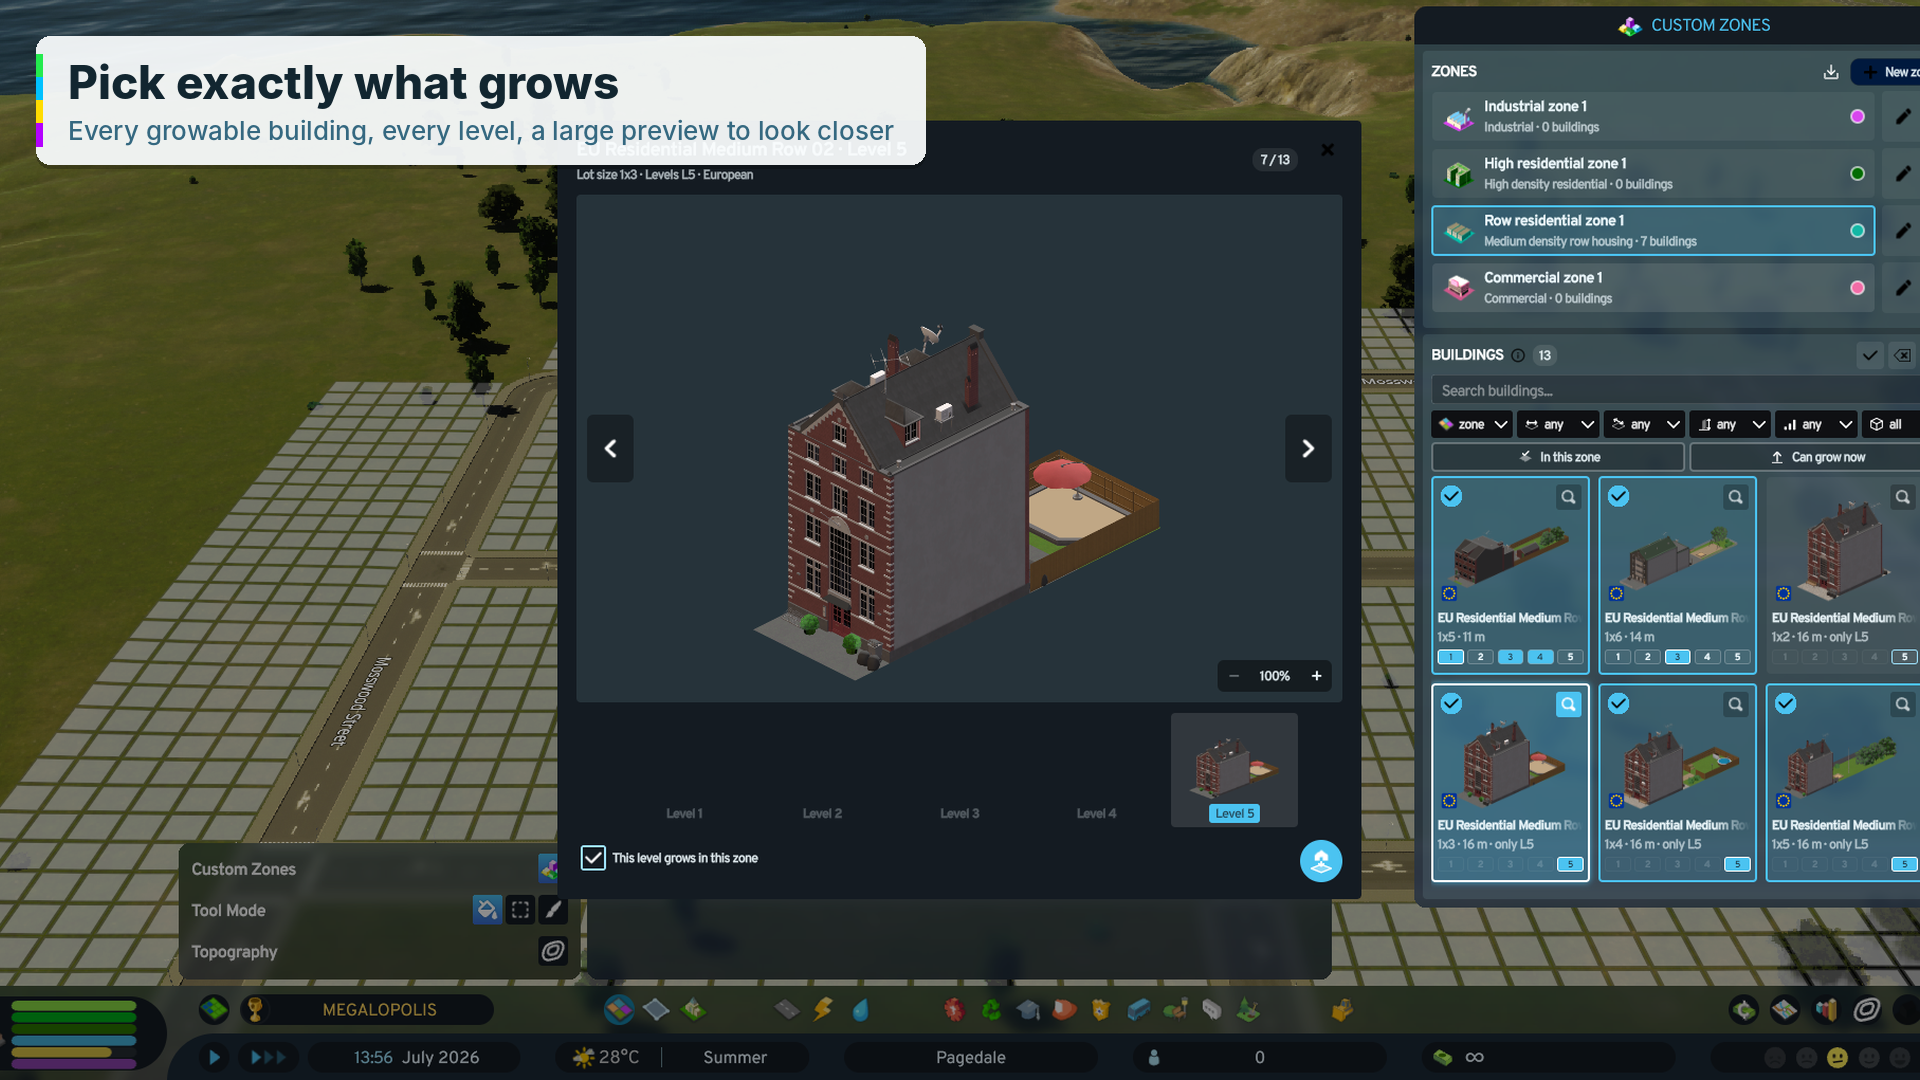
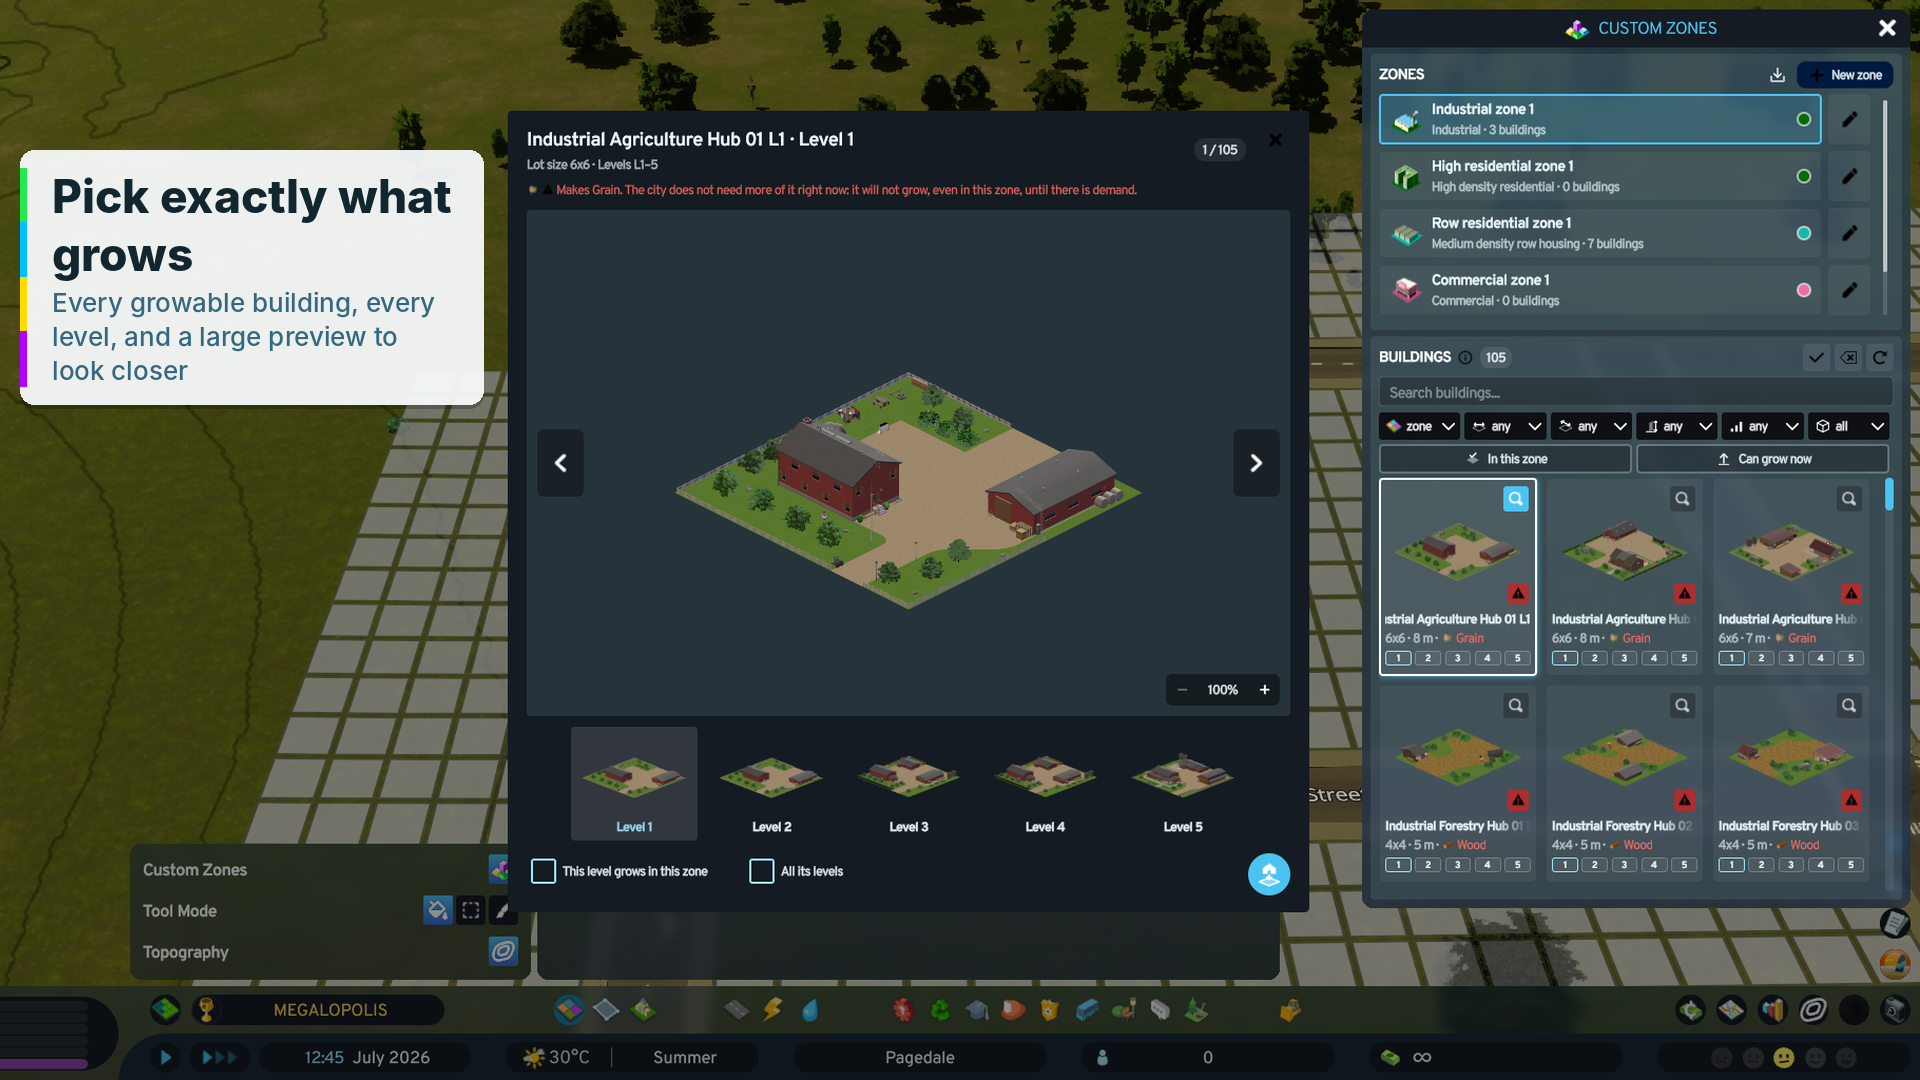
captures update

diff --git a/CustomZones/UI/src/components/CustomZonesPanel.tsx b/CustomZones/UI/src/components/CustomZonesPanel.tsx
@@ -43,6 +43,7 @@ import {
   selectedZone$,
   setPanelVisible,
   setSelectedZone,
+  pickZone,
   setZoneColor,
   setZoneKeepDesign,
   setZoneGrowth,
@@ -153,13 +154,13 @@ export const CustomZonesPanel = () => {
             zones={zones}
             selectedId={selectedId}
             editingId={showEditor ? selectedId : ""}
-            onSelect={(id) => setSelectedZone(id)}
+            onSelect={(id) => pickZone(id)}
             onEdit={(id) => {
               setCreating(false);
               if (id === selectedId && showEditor) {
                 setEditing(false);
               } else {
-                setSelectedZone(id);
+                pickZone(id);
                 setEditing(true);
               }
             }}

diff --git a/CustomZones/UI/src/bindings.ts b/CustomZones/UI/src/bindings.ts
@@ -193,6 +193,8 @@ export const PACK_MOD = "__CZ_MOD__";
 
 export const setPanelVisible = (visible: boolean) => trigger(MOD_ID, "SetPanelVisible", visible);
 export const setSelectedZone = (id: string) => trigger(MOD_ID, "SetSelectedPalette", id);
+/** A zone clicked in the list: selected in the panel and picked in the zoning toolbar to paint. */
+export const pickZone = (id: string) => trigger(MOD_ID, "PickZone", id);
 
 export const createZone = (name: string, category: ZoneCategory, density: DensityType) =>
   trigger(MOD_ID, "CreatePalette", name, category, density);

diff --git a/CustomZones/Systems/PaletteUISystem.cs b/CustomZones/Systems/PaletteUISystem.cs
@@ -111,6 +111,12 @@ namespace CustomZones.Systems
 
         private bool m_ZoneToolWasActive;
 
+        // A zone chosen in the panel, to be picked in the zoning toolbar as well, and
+        // the frames left to wait for it (a new zone gets its zone type a frame or two
+        // after it is created).
+        private string m_PaintPaletteId = string.Empty;
+        private int m_PaintWaitFrames;
+
         // "Place it in the city" from the large preview: the building handed to the
         // game's placement tool and the zone tool that was open. When the player
         // leaves the placement (Escape / right click), the zone tool, the panel and
@@ -187,6 +193,9 @@ namespace CustomZones.Systems
                 PushCoverage();
             });
 
+            // A zone clicked in the panel's list: also picked in the zoning toolbar.
+            CreateTrigger<string>("PickZone", SelectToPaint);
+
             m_ScrollIndex = CreateBinding("ScrollIndex", "SetScrollIndex", 0D, row =>
             {
                 m_ScrollRow = row;
@@ -241,7 +250,7 @@ namespace CustomZones.Systems
             CreateTrigger<string, int, int>("CreatePalette", (name, category, density) =>
             {
                 var palette = PaletteStorage.Instance.Create(name, (ZoneCategory)category, (DensityType)density);
-                Select(palette.Id);
+                SelectToPaint(palette.Id);
             });
 
             CreateTrigger<string, string>("RenamePalette",
@@ -305,7 +314,7 @@ namespace CustomZones.Systems
                 var zone = PaletteStorage.Instance.Import(file);
                 if (zone != null)
                 {
-                    Select(zone.Id);
+                    SelectToPaint(zone.Id);
                 }
             });
 
@@ -429,6 +438,7 @@ namespace CustomZones.Systems
             base.OnUpdate();
 
             HandlePlacingReturn();
+            PickPaintZone();
             HandleToolSelection();
 
             var selectedEntity = m_SelectedInfoSystem.selectedEntity;
@@ -576,6 +586,64 @@ namespace CustomZones.Systems
             m_ScrollRow = 0;
             MarkBrowserDirty();
             PushCoverage();
+        }
+
+        /// <summary>A zone the player chose in the panel: selected, and picked in the zoning toolbar to paint.</summary>
+        private void SelectToPaint(string id)
+        {
+            Select(id);
+            m_PaintPaletteId = m_SelectedPaletteId;
+            m_PaintWaitFrames = 120;
+        }
+
+        /// <summary>
+        /// While the zoning tool is open, picks the zone chosen in the panel in the
+        /// game's zoning toolbar, so the player can paint it straight away. (The other
+        /// way round, a zone picked in the toolbar is selected in the panel by
+        /// <see cref="HandleToolSelection"/>.)
+        /// </summary>
+        private void PickPaintZone()
+        {
+            if (m_PaintPaletteId.Length == 0)
+            {
+                return;
+            }
+
+            if (!(m_ToolSystem.activeTool is ZoneToolSystem) || m_PaintWaitFrames-- <= 0)
+            {
+                m_PaintPaletteId = string.Empty;
+                return;
+            }
+
+            if (!m_ZoneSystem.TryGetPaletteZone(m_PaintPaletteId, out var zone))
+            {
+                return; // not created yet
+            }
+
+            var paletteId = m_PaintPaletteId;
+            if (m_ToolSystem.activePrefab == zone)
+            {
+                m_PaintPaletteId = string.Empty;
+                return;
+            }
+
+            // Only once the game has given the zone its zone type (a new zone gets it
+            // a frame or two after it is created): before that it cannot be painted.
+            var prefabSystem = World.GetOrCreateSystemManaged<PrefabSystem>();
+            if (!prefabSystem.TryGetEntity(zone, out var zoneEntity) ||
+                !EntityManager.HasComponent<ZoneData>(zoneEntity) ||
+                EntityManager.GetComponentData<ZoneData>(zoneEntity).m_ZoneType.m_Index == 0)
+            {
+                return;
+            }
+
+            m_PaintPaletteId = string.Empty;
+            if (m_ToolSystem.ActivatePrefabTool(zone))
+            {
+                // Already selected in the panel: HandleToolSelection must not select it again.
+                m_ActiveZonePalette.Value = paletteId;
+                m_ZoneToolWasActive = true;
+            }
         }
 
         /// <summary>

diff --git a/README.md b/README.md
@@ -6,7 +6,7 @@ A Cities: Skylines II code mod. It lets players create their own zone types and 
 
 > Strongly recommended: [Building Icon Generator](https://github.com/dvovo/BuildingIconGenerator), by the same author, for a real picture of every building in the browser.
 
-- **Status:** beta (`1.0.0-beta.1`), built against game version 1.6.2f1.
+- **Status:** beta (`1.0.1-beta`), built against game version 1.6.2f1.
 - **Player guide:** [DESCRIPTION.md](DESCRIPTION.md) is the text of the Paradox Mods page and explains every option from the player's side. This README covers how the mod works.
 - **Bugs and ideas:** open an issue with the templates of this repository (please attach `CustomZones.log`), or post in the [forum thread](https://forum.paradoxplaza.com/forum/threads/mod-beta-custom-zones-discussion-feedback.1947164/), which is also the discussion of the mod's Paradox Mods page.
 - **Images:** the mod icon, thumbnail, banner and social image are in `Branding/`; the gallery is in `CustomZones/Properties/Screenshots/`.
@@ -153,7 +153,7 @@ Side effects are kept consistent with the game:
 - React / TypeScript under `CustomZones/UI/src`, bound with `cs2/api` (`bindValue` / `trigger`).
 - **Panel:** zone list, import / export, building browser with filters and search. The browser is virtualised: C# sends only the visible rows (`Families`, plus `FamilyCount`, `ScrollIndex`), and the large preview gets its own `PreviewFamily` binding so it stays current when its card is off screen.
 - **Zone window:** name, colour, icon chooser and designer, base zone, growth mode, level-up options, coverage warnings (`Coverage`: lot widths with no building, `NoBirth`, `Stops`), statistics (`ZoneStats`, refreshed every 5 s while open).
-- **Selecting a custom zone in the zoning toolbar selects it in the panel.**
+- **Panel and zoning toolbar stay in step:** a custom zone picked in the zoning toolbar is selected in the panel (`HandleToolSelection`), and a zone clicked in the panel, created or imported is picked in the toolbar (`PickZone` trigger, `PickPaintZone`: `ToolSystem.ActivatePrefabTool`, once the new zone has its zone type index).
 - Vanilla components (checkbox, dropdown, colour field) are imported through the game's module registry (`vanilla.ts`).
 
 ## Data files
